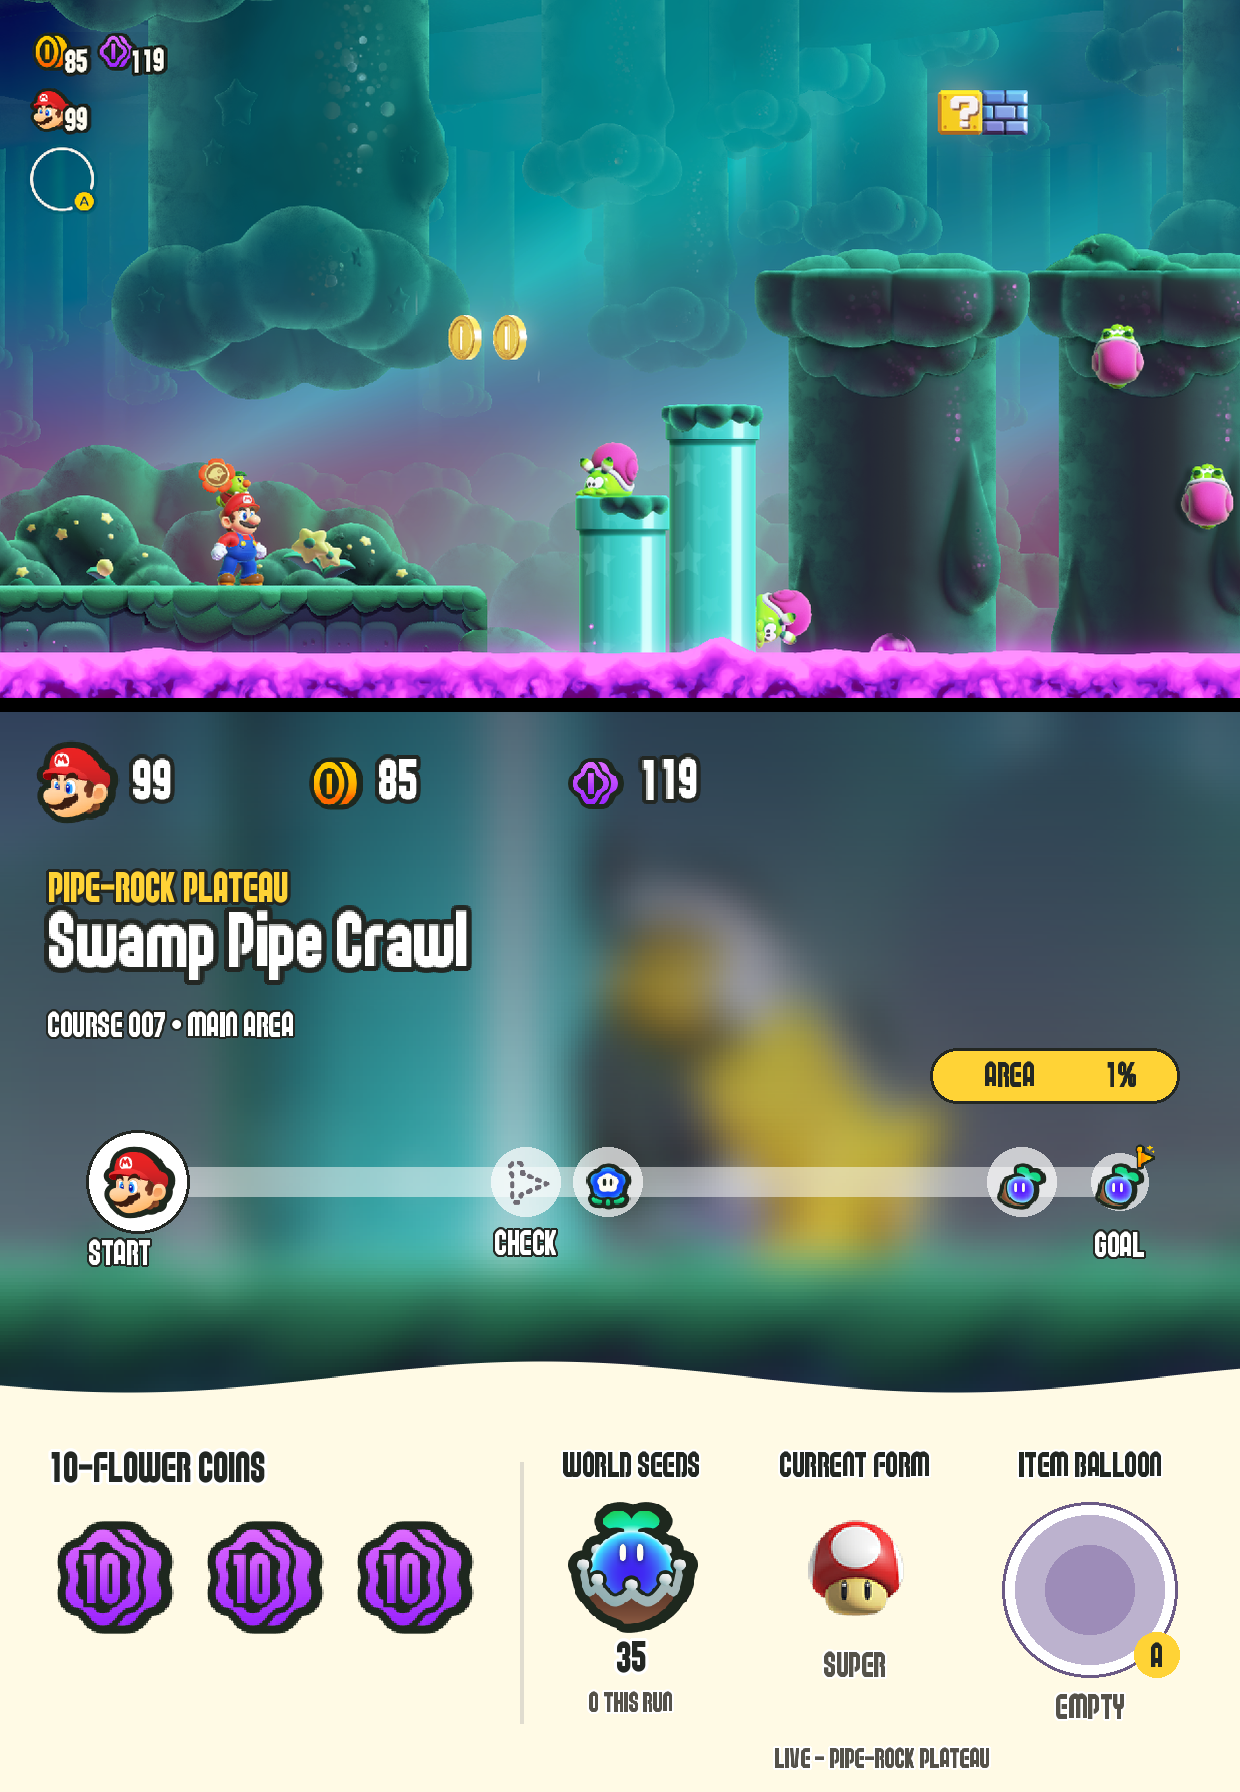
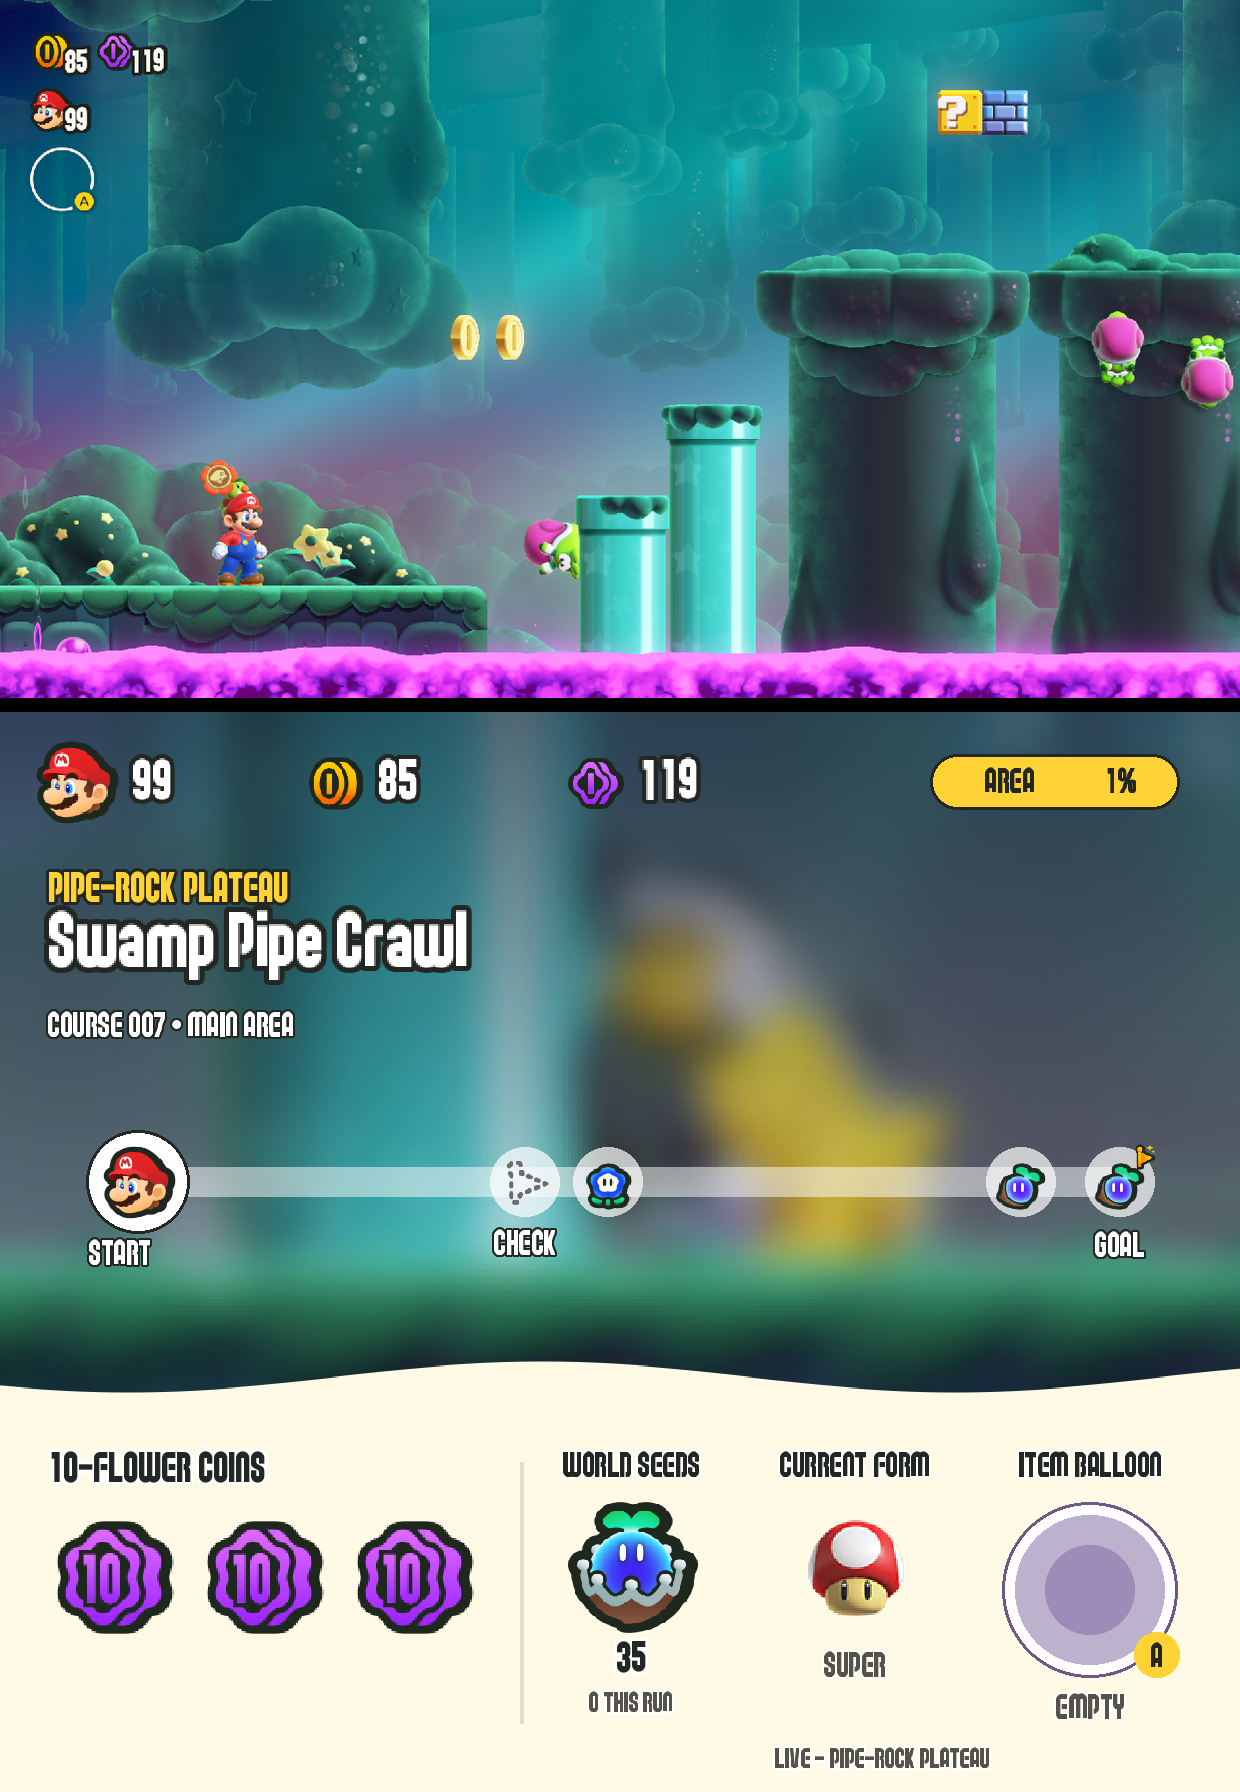
Super Mario Bros. Wonder companion 1.0.1

diff --git a/tools/wonder/gen_manifest.py b/tools/wonder/gen_manifest.py
@@ -11,7 +11,7 @@ player's romfs (module:wonder:<key>) plus package-generated backgrounds (module:
 import json, os, sys
 
 W, H = 1240, 1080
-INK, CREAM, YELLOW, PURPLE, PINK, BLUE = '#FF232723', '#FFFFFAE5', '#FFFFD336', '#FF8447E5', '#FFFF4297', '#FF2AC8F2'
+INK, CREAM, YELLOW = '#FF232723', '#FFFFFAE5', '#FFFFD336'
 GREY_PILL, GREY_TEXT, PILL_EDGE, PANEL = '#FFE2E0DA', '#FF55524A', '#FF6E6A62', '#FFF6F5F1'
 WORLDS = ['Pipe-Rock Plateau', 'Petal Isles', 'Fluff-Puff Peaks', 'Shining Falls', 'Sunbaked Desert',
           'Fungi Mines', 'Deep Magma Bog', "Bowser's Castle", 'Special World']
@@ -83,7 +83,8 @@ def setup_page():
 
 
 def wrong_pipe_card():
-    """Shown on a game version the companion can't read (1.0.0): game art + font, no data."""
+    """Shown on an older game version (1.0.0, 1.0.1): game art + font, no data. The module
+    publishes the version line ("Your game is Ver. 1.0.1.")."""
     wb = {'need_bind': 'wonder.wrong_build'}
     return [
         rect(0, 0, W, H, '#CC232723', **wb),
@@ -93,7 +94,6 @@ def wrong_pipe_card():
         label(620, 590, 'This companion is for Super Mario Bros. Wonder Ver. 1.2.1.', 5, INK, align='center', **wb),
         {'type': 'label', 'rect': [620, 640, 0, 0], 'bind_text': 'wonder.game_version_line', 'text_scale': 5,
          'color': GREY_TEXT, 'align': 'center', **wb},
-        label(620, 640, 'Your game is an older version.', 5, GREY_TEXT, align='center', **wb),
         label(620, 730, 'Install the latest game update, then come back through the right pipe.', 5,
               INK, align='center', **wb),
         label(620, 840, 'Nothing is read from the game until then.', 4, GREY_TEXT, align='center', **wb),
@@ -190,23 +190,28 @@ def rail():
         {'type': 'button', 'rect': [x0 - 20, y - 18, RAIL_W + 40, 36], 'bg': TRACK, 'color': '#00000000',
          'frame': 0, 'pill': True, **rv},
         label(x0, y + 58, 'START', 5, white, align='center', **rv),
-        label(x0 + RAIL_W, y + 50, 'GOAL', 5, white, align='center', **rv),
-        {**disc(64, DISC, '#00000000', 0, **rv), 'rect': [x0 + RAIL_W - 32, y - 32, 64, 64]},
-        {'type': 'image', 'rect': [x0 + RAIL_W - 30, y - 30, 60, 60],
+        label(x0, y + 50, 'GOAL', 5, white, align='center', x_bind='wonder.rail.goal_px', **rv),
+        {**disc(MARK, DISC, '#00000000', 0, **rv), 'x_bind': 'wonder.rail.goal_px'},
+        {'type': 'image', 'rect': [x0 - 30, y - 30, 60, 60], 'x_bind': 'wonder.rail.goal_px',
          'src': 'module:wonder:lyt/LMotherSeed/IconMotherSeedBlank^s', 'color': '#FF6F6B74',
          'need_bind': 'ui.goal.miss'},
-        {'type': 'image', 'rect': [x0 + RAIL_W - 30, y - 30, 60, 60], 'src': 'module:wonder:pict/SeedBlue',
+        {'type': 'image', 'rect': [x0 - 30, y - 30, 60, 60], 'x_bind': 'wonder.rail.goal_px', 'src': 'module:wonder:pict/SeedBlue',
          'color': '#FFFFFFFF', 'need_bind': 'ui.goal.got'},
-        {'type': 'image', 'rect': [x0 + RAIL_W + 10, y - 44, 30, 34], 'src': 'module:wonder:pict/GoalFlag',
+        {'type': 'image', 'rect': [x0 + 10, y - 44, 30, 34], 'x_bind': 'wonder.rail.goal_px', 'src': 'module:wonder:pict/GoalFlag',
          'color': '#FFFFFFFF', **rv},
-        # Secret goal (only when the area has one)
-        {**disc(MARK, DISC, '#00000000', 0), 'x_bind': 'wonder.rail.secret_px', 'need_bind': 'wonder.rail.secret'},
-        {**icon('module:wonder:lyt/LMotherSeed/IconMotherSeedBlank^s'), 'color': '#FF6F6B74',
-         'x_bind': 'wonder.rail.secret_px', 'need_bind': 'ui.secret.miss'},
-        {**icon('module:wonder:pict/SeedBlue'), 'x_bind': 'wonder.rail.secret_px',
-         'need_bind': 'ui.secret.got'},
-        {'type': 'label', 'rect': [x0, y + 48, 0, 0], 'text': 'SECRET', 'text_scale': 5, 'color': white,
-         'align': 'center', 'x_bind': 'wonder.rail.secret_px', 'need_bind': 'wonder.rail.secret'},
+        # Secret exit: hidden until discovered (its seed earned); then a branch lane rises off the
+        # rail before the goal and runs to the secret pole's seed.
+        {'type': 'rect', 'rect': [x0 - 18, y - 118, 36, 100], 'bg': TRACK, 'color': '#00000000',
+         'x_bind': 'wonder.rail.branch_px', 'need_bind': 'ui.secret.got'},
+        {'type': 'rect', 'rect': [x0 + 18, y - 118, 20, 36], 'bg': TRACK, 'color': '#00000000',
+         'x_bind': 'wonder.rail.branch_px', 'repeat': 60, 'repeat_dx': 20,
+         'repeat_bind': 'wonder.rail.branch_n', 'need_bind': 'ui.secret.got'},
+        {**disc(MARK, DISC, '#00000000', 0), 'rect': [x0 - MARK // 2, y - 100 - MARK // 2, MARK, MARK],
+         'x_bind': 'wonder.rail.secret_px', 'need_bind': 'ui.secret.got'},
+        {**icon('module:wonder:pict/SeedBlue'), 'rect': [x0 - ICON // 2, y - 100 - ICON // 2, ICON, ICON],
+         'x_bind': 'wonder.rail.secret_px', 'need_bind': 'ui.secret.got'},
+        {'type': 'label', 'rect': [x0 - 30, y - 116, 0, 0], 'text': 'SECRET', 'text_scale': 5, 'color': white,
+         'align': 'right', 'x_bind': 'wonder.rail.branch_px', 'need_bind': 'ui.secret.got'},
     ]
     m = 'wonder.rail.m.{i}.'
     rep12 = {'repeat': 12, 'repeat_dx': 0}
@@ -223,14 +228,14 @@ def rail():
         {'type': 'label', 'rect': [x0, y + 48, 0, 0], 'text': 'CHECK', 'text_scale': 5, 'color': white,
          'align': 'center', **at('k4')},
         # The player riding the rail: white disc with a black ring, character icon inside.
-        {**disc(PLAYER, white, INK, 6), 'x_bind': 'wonder.rail.px', **rv},
+        {**disc(PLAYER, white, INK, 6), 'x_bind': 'wonder.rail.px', 'y_bind': 'wonder.rail.player_dy', **rv},
         {'type': 'image', 'rect': [x0 - 42, y - 42, 84, 84], 'bind': 'wonder.character',
          'src': 'module:wonder:chara/0', 'src_format': 'module:wonder:chara/%d', 'color': white,
-         'x_bind': 'wonder.rail.px', **rv},
-        # AREA nn% pill
-        {'type': 'button', 'rect': [930, 336, 250, 56], 'bg': YELLOW, 'color': INK, 'frame': 3, 'pill': True, **rv},
-        label(1010, 350, 'AREA', 5, INK, align='center', **rv, _plain=True),
-        value(1120, 350, 'wonder.rail.pct', 5, INK, align='center', suffix='%', **rv, _plain=True),
+         'x_bind': 'wonder.rail.px', 'y_bind': 'wonder.rail.player_dy', **rv},
+        # AREA nn% pill, top right on the counter row (like the map's OPEN COURSES pill)
+        {'type': 'button', 'rect': [930, 42, 250, 56], 'bg': YELLOW, 'color': INK, 'frame': 3, 'pill': True, **rv},
+        label(1010, 56, 'AREA', 5, INK, align='center', **rv, _plain=True),
+        value(1120, 56, 'wonder.rail.pct', 5, INK, align='center', suffix='%', **rv, _plain=True),
     ]
     return w
 
@@ -283,8 +288,7 @@ def course_page():
                 need_bind='wonder.has_item'),
         *glyph(1134, 920, 46, 'A', bg=YELLOW, ring='#FFFFFFFF'),
         label(1090, 982, 'EMPTY', 5, GREY_TEXT, align='center', need_bind='wonder.item_empty'),
-        value(1090, 982, 'wonder.reserve_item', 5, GREY_TEXT, align='center', table='power_caps',
-              need_bind='wonder.has_item'),
+        label(1090, 982, 'HOLD', 5, GREY_TEXT, align='center', need_bind='wonder.has_item'),
         # Footer under the right-hand columns, clear of the separator.
         value(882, 1036, 'wonder.world', 4, GREY_TEXT, align='center', table='world_live'),
         # Courses without shelf items (unnamed prologue courses): cream + the title's checker pattern.
@@ -318,11 +322,6 @@ derived = [
     {'name': 'ui.goal.miss0', 'cmp': 'eq', 'a': 'wonder.rail.goal_got', 'b': 0},
     {'name': 'ui.goal.miss', 'all_nonzero': ['wonder.rail.valid', 'ui.goal.miss0']},
     {'name': 'ui.secret.got', 'all_nonzero': ['wonder.rail.secret', 'wonder.rail.secret_got']},
-    {'name': 'ui.secret.miss0', 'cmp': 'eq', 'a': 'wonder.rail.secret_got', 'b': 0},
-    {'name': 'ui.secret.miss', 'all_nonzero': ['wonder.rail.secret', 'ui.secret.miss0']},
-    {'name': 'ui.title', 'cmp': 'eq', 'a': 'wonder.status', 'b': 9},
-    {'name': 'ui.unsupported', 'cmp': 'eq', 'a': 'wonder.status', 'b': 3},
-    {'name': 'ui.idle', 'cmp': 'lt', 'a': 'wonder.status', 'b': 3},
     {'name': 'ui.small', 'cmp': 'eq', 'a': 'wonder.power_up', 'b': 0},
     {'name': 'ui.map.no_course', 'cmp': 'eq', 'a': 'wonder.map.has_course', 'b': 0},
 ]

diff --git a/README.md b/README.md
@@ -18,7 +18,7 @@ This repository holds the companion packages, their documentation and screenshot
 | 2 | [Metroid Dread](#metroid-dread) | `010093801237C000` | 2.1.0 | 1.0.0 | Eden Duo 1.0.0 | [.dsmod.zip](https://github.com/igawa6/eden-duo-companions/releases/tag/metroid-dread-1.0.0) | |
 | 3 | [The Legend of Zelda: Link's Awakening](#the-legend-of-zelda-links-awakening) | `01006BB00C6F0000` | 1.0.1 | 1.0.0 | Eden Duo 1.0.0 | [.dsmod.zip](https://github.com/igawa6/eden-duo-companions/releases/tag/links-awakening-1.0.0) | |
 | 4 | [Mario Kart 8 Deluxe](#mario-kart-8-deluxe) | `0100152000022000` | 4.0.0, 3.0.3 | 1.0.0 | Eden Duo 1.0.1 | [.dsmod.zip](https://github.com/igawa6/eden-duo-companions/releases/tag/mario-kart-8-deluxe-1.0.0) | |
-| 5 | [Super Mario Bros. Wonder](#super-mario-bros-wonder) | `010015100B514000` | 1.2.1 | 1.0.0 | Eden Duo 1.0.2 | [.dsmod.zip](https://github.com/igawa6/eden-duo-companions/releases/tag/super-mario-bros-wonder-1.0.0) | ⭐<sup>1</sup> |
+| 5 | [Super Mario Bros. Wonder](#super-mario-bros-wonder) | `010015100B514000` | 1.2.1 | 1.0.1 | Eden Duo 1.0.2 | [.dsmod.zip](https://github.com/igawa6/eden-duo-companions/releases/tag/super-mario-bros-wonder-1.0.1) | ⭐<sup>1</sup> |
 
 <sup>1</sup> 🥇 Thanks to [u/gymgooner123](https://www.reddit.com/user/gymgooner123), who commissioned the Persona 5 Royal companion.
 
@@ -127,7 +127,7 @@ Limitations:
 
 ## Super Mario Bros. Wonder
 
-`010015100B514000` · game version 1.2.1 · companion 1.0.0
+`010015100B514000` · game version 1.2.1 · companion 1.0.1
 
 <!-- screenshots/super-mario-bros-wonder/*.png -->
 | Title | World map | Course |
